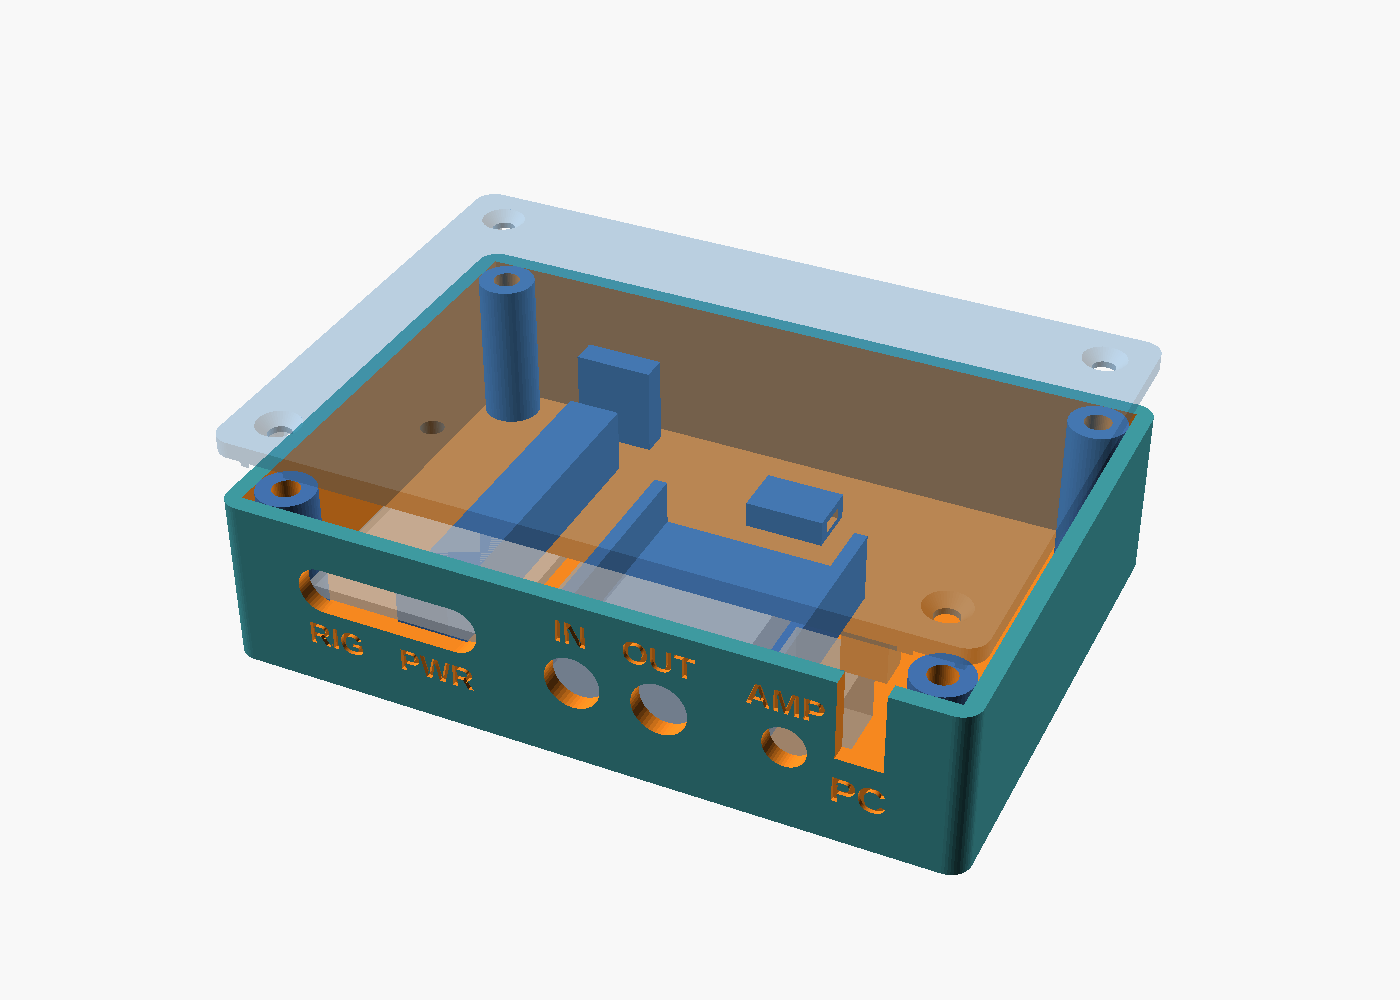
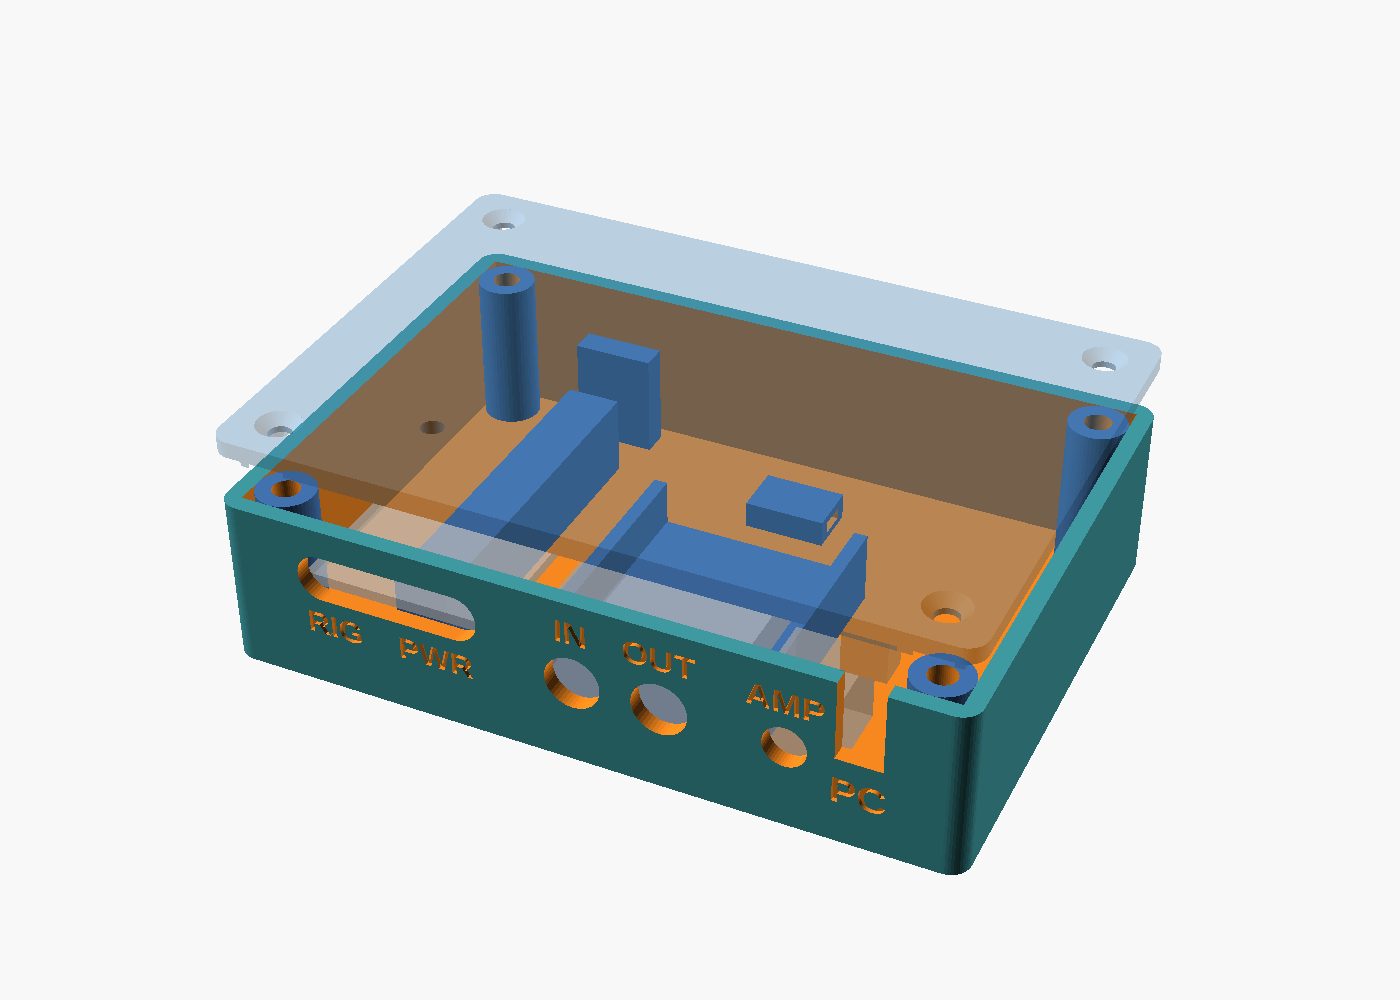
Enclosure: board height for wires soldered to the header pins

diff --git a/enclosure/README.md b/enclosure/README.md
@@ -49,7 +49,6 @@ box. See `docs/BOX_PLAN.md`.
 | Parameter | Default | Measure |
 |---|---|---|
 | `pcb_l`, `pcb_w` | 63.5 × 28 | S3 board outline |
-| `pin_clear` | 10 | Floor to board underside. The default assumes wires soldered to the pins. Dupont jumpers on downward pins need about 20 (raise `in_h` too) |
 | `usbc_z_above_pcb` | 1.6 | Height of the USB-C socket centre above the board's top face |
 | `led_x`, `led_y` | 14, 12 | Position of the RGB LED on the board |
 | `notch_w` | 6.5 | USB extension cable diameter + 1 |

diff --git a/HANDOVER.md b/HANDOVER.md
@@ -282,6 +282,8 @@ radio → SPE path doesn't need Wi-Fi.
 
 ## What changed
 
+- **2026-11-14** — Enclosure: wires are soldered to the S3 header pins, so
+  the board sits 12 mm above the floor (clears downward headers + joints).
 - **2026-11-14** — Enclosure draft 6: real dongle sizes (28 × 29 × 11.3 mm
   body + 14 mm USB-A plug, jacks 12.4 mm apart at 6.35 mm up, mic on the
   left). Box
